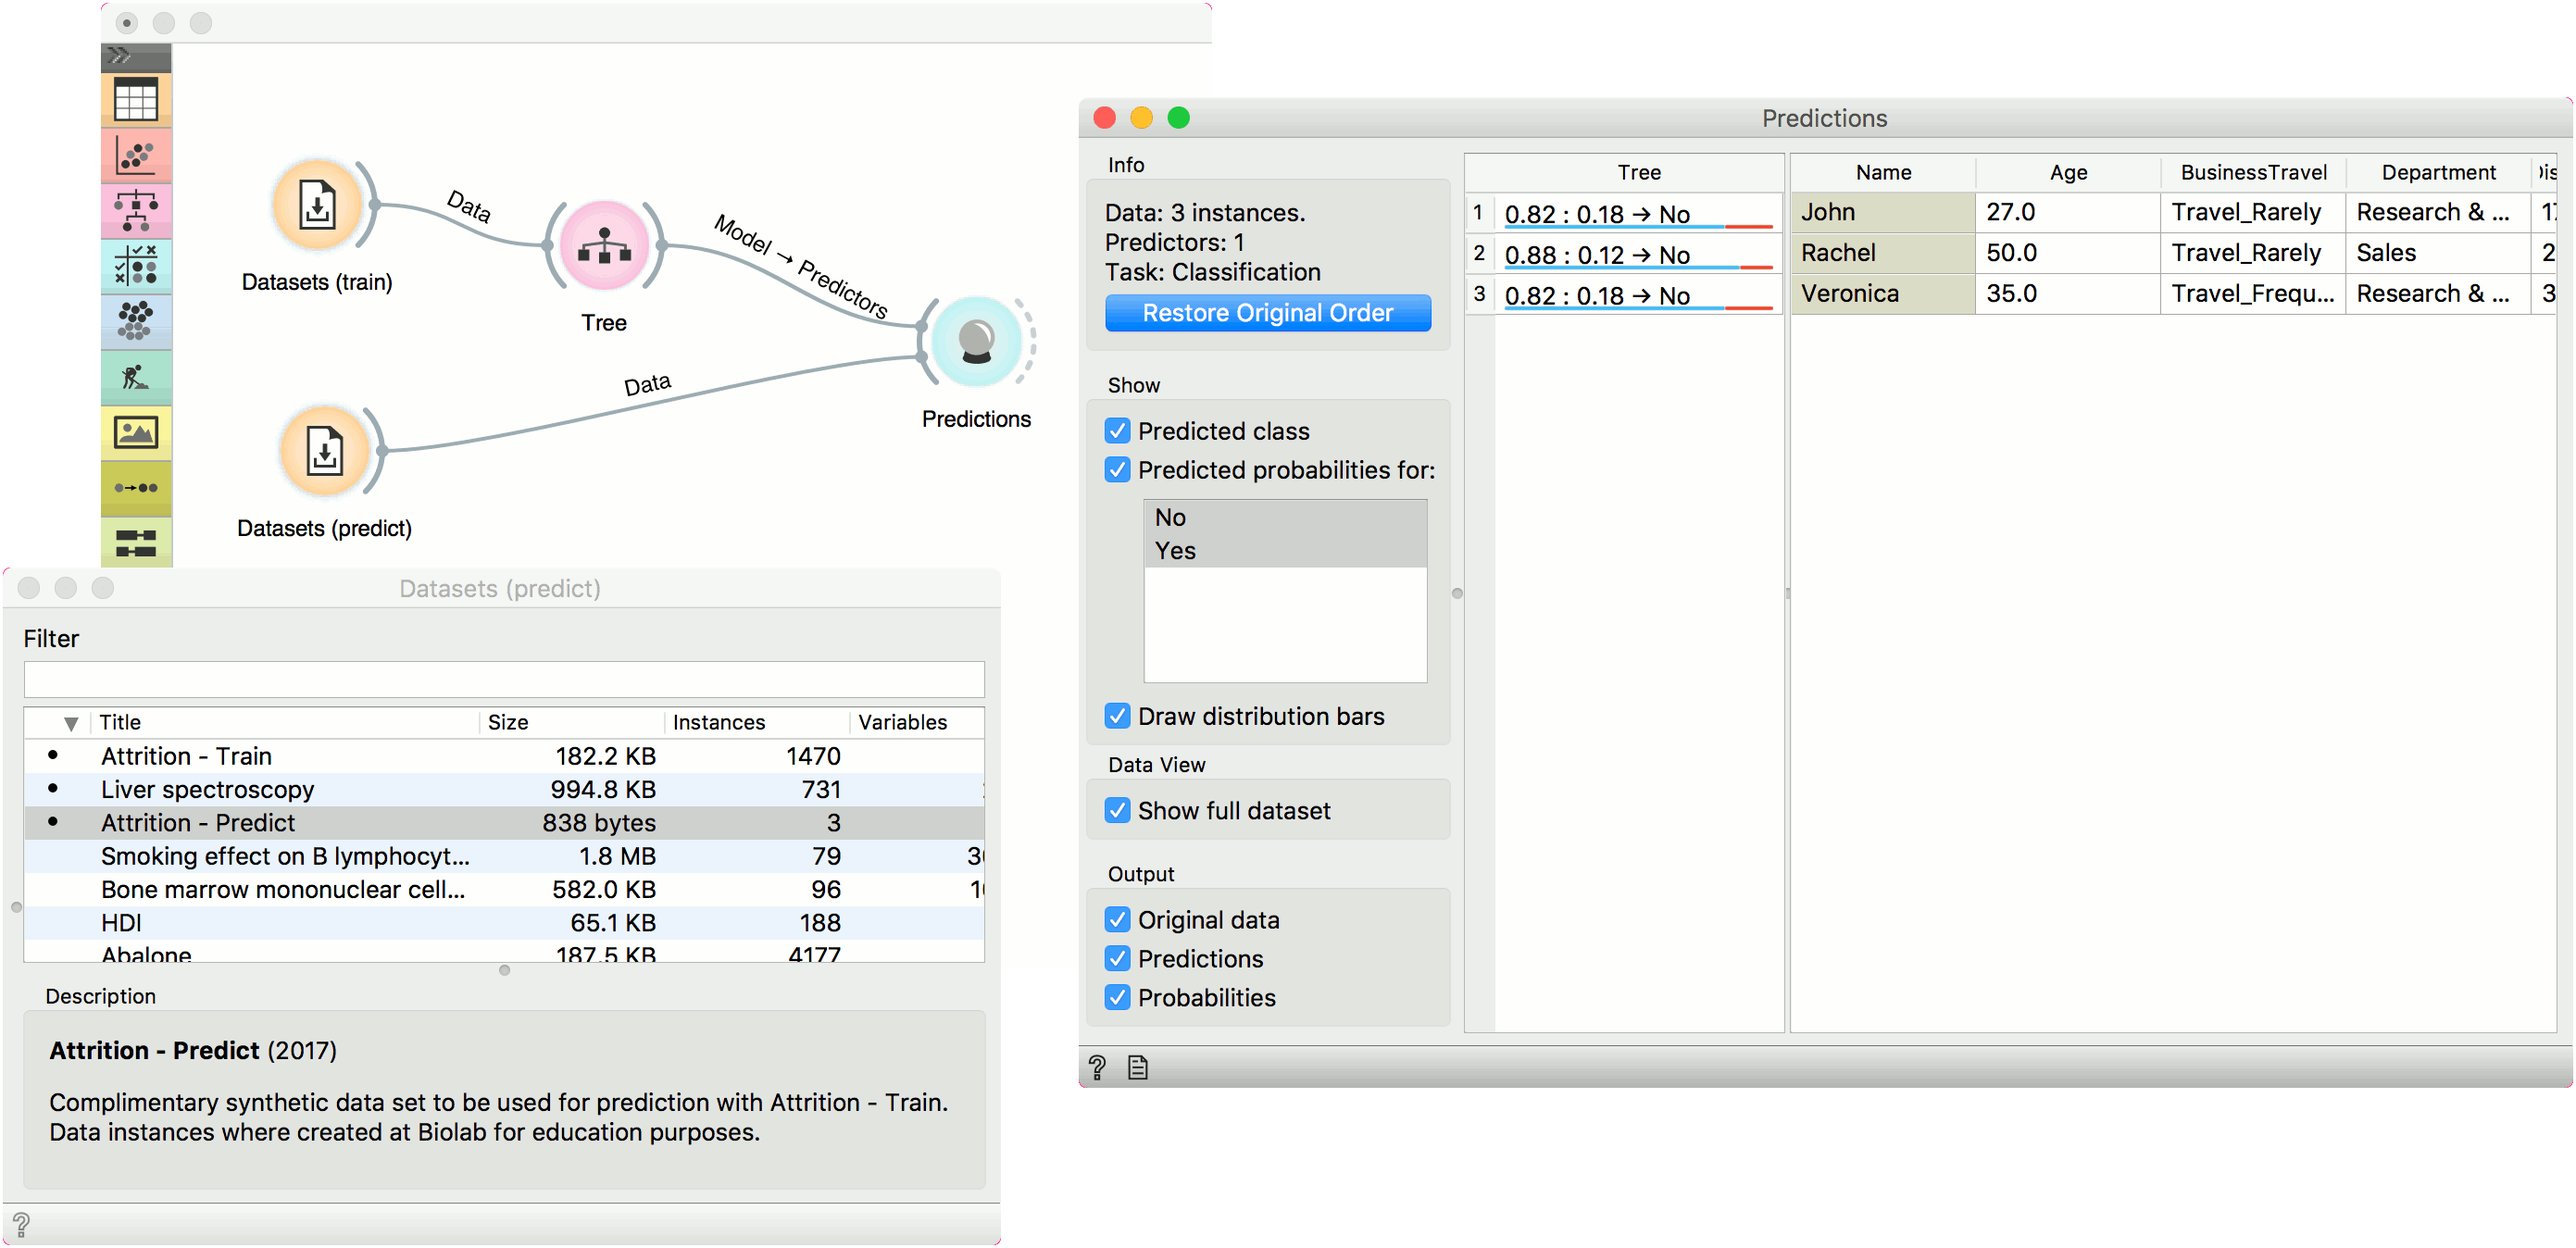
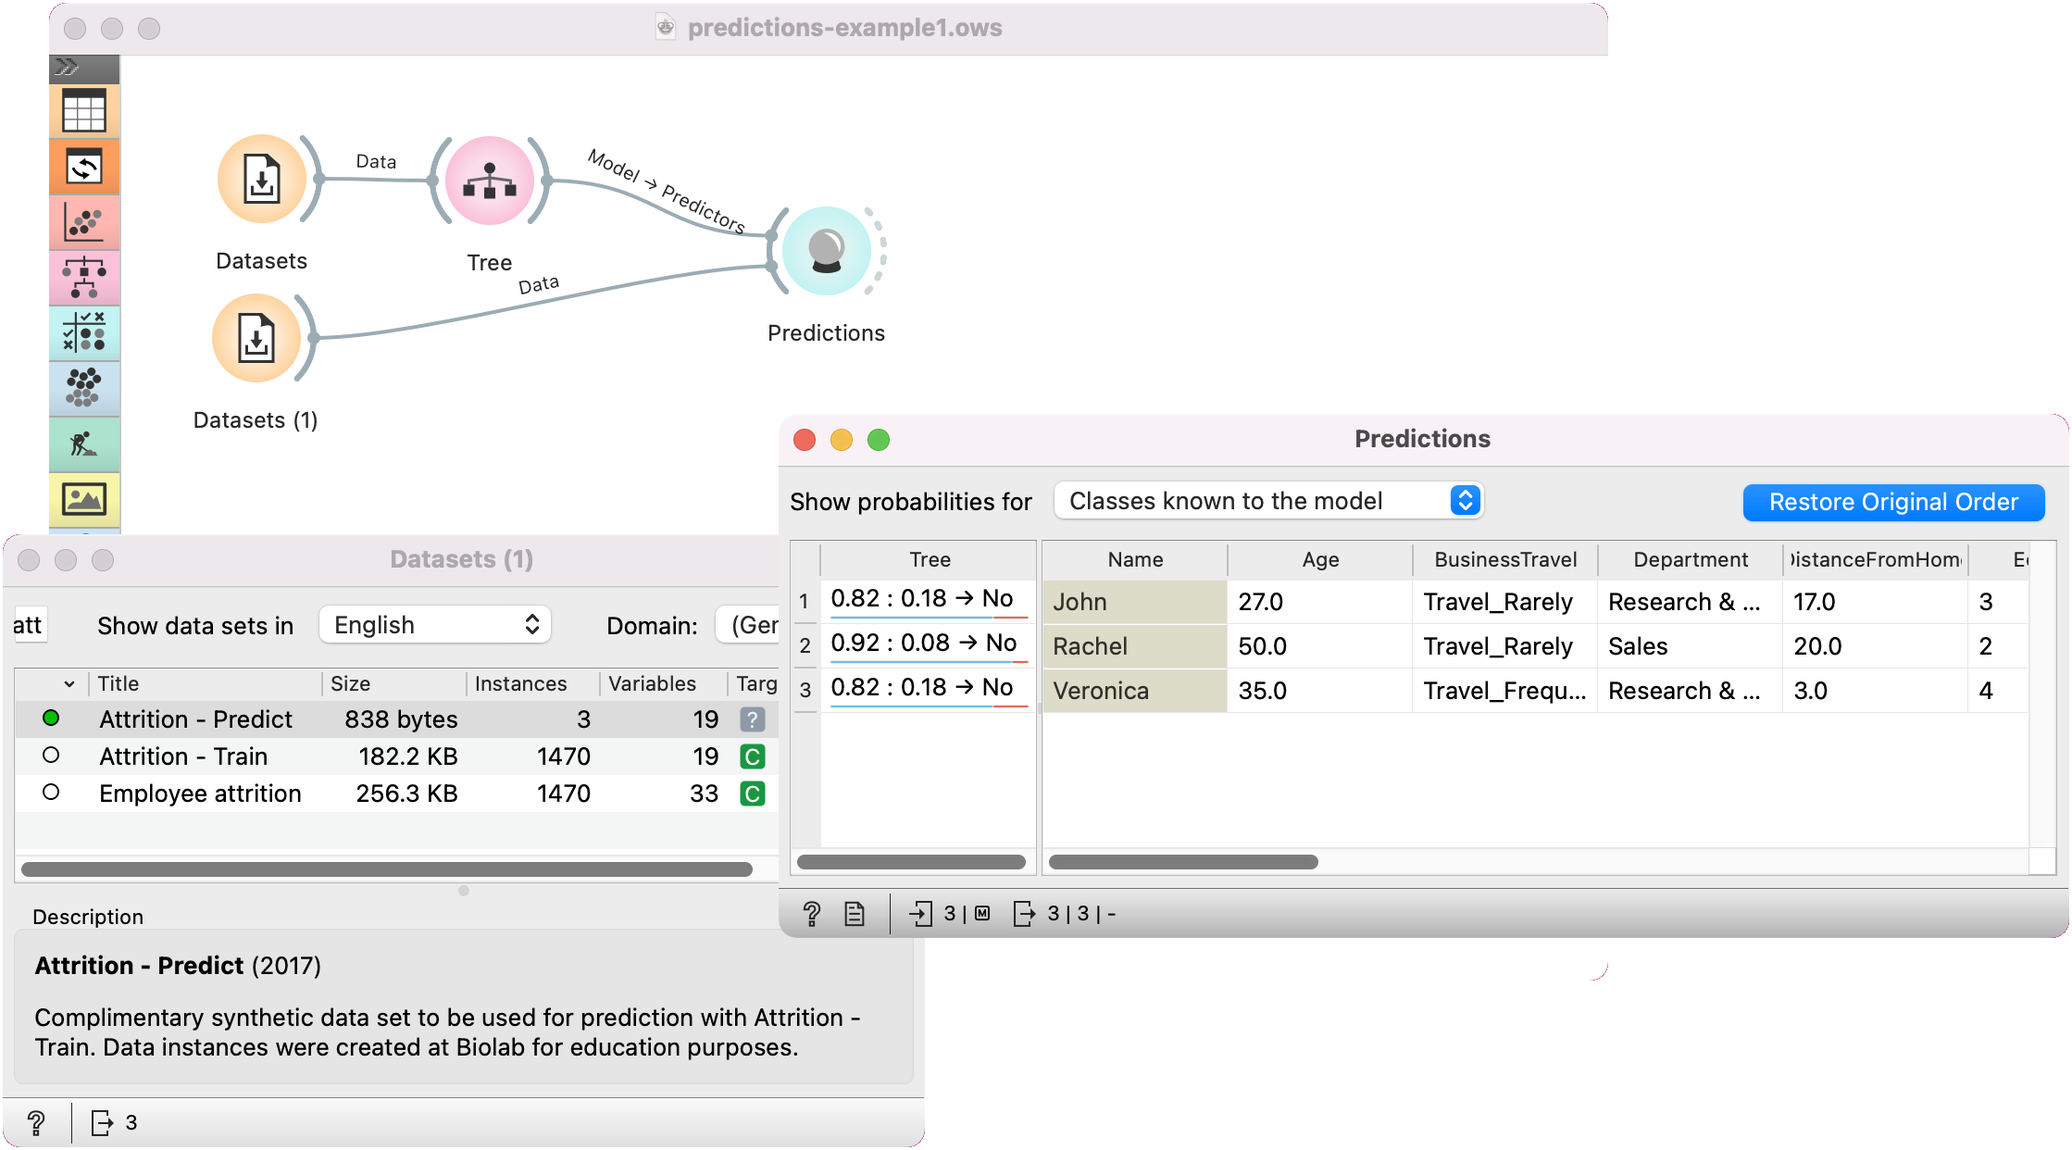
[DOC] Predictions

diff --git a/source/widgets/evaluate/predictions.md b/source/widgets/evaluate/predictions.md
@@ -10,6 +10,7 @@ Shows models' predictions on the data.
 
 **Outputs**
 
+- Selected Predictions: a subset of predictions
 - Predictions: data with added predictions
 - Evaluation Results: results of testing classification algorithms
 
@@ -17,16 +18,23 @@ The widget receives a dataset and one or more predictors (predictive models, not
 
 ![](images/Predictions-stamped.png)
 
-1. Information on the input, namely the number of instances to predict, the number of predictors and the task (classification or regression). If you have sorted the data table by attribute and you wish to see the original view, press *Restore Original Order*.
-2. You can select the options for classification. If *Predicted class* is ticked, the view provides information on predicted class. If *Predicted probabilities for* is ticked, the view provides information on probabilities predicted by the classifier(s). You can also select the predicted class displayed in the view. The option *Draw distribution bars* provides a visualization of probabilities.
-3. By ticking the *Show full dataset*, you can view the entire data table (otherwise only class variable will be shown).
-4. Select the desired output.
-5. Predictions.
+1. *Show probabilities for* enables showing different kinds of prediction probabilities, namely for classes in the data, for classes known to the model, or classes in data and model.
+   If *Show classification errors* is ticked, an additional error column is shown, displaying 1 - probability assigned to the correct class.
+   If you have sorted the data table by attribute and you wish to see the original view, press *Restore Original Order*.
+2. *Show performance scores* shows scores for model comparison. For classification, one can set the *Target class* to compare scores on different classes. *(Average over classes)* averages individual class scores.
 
-The widget show the probabilities and final decisions of [predictive models](https://en.wikipedia.org/wiki/Predictive_modelling). The output of the widget is another dataset, where predictions are appended as new meta attributes. You can select which features you wish to output (original data, predictions, probabilities). The result can be observed in a [Data Table](../data/datatable.md). If the predicted data includes true class values, the result of prediction can also be observed in a [Confusion Matrix](../evaluate/confusionmatrix.md).
+The widget show the probabilities and final decisions of [predictive models](https://en.wikipedia.org/wiki/Predictive_modelling). There are three widget outputs, namely another dataset, where predictions are appended as new meta attributes, a selected subset of enhanced dataset, or evaluation results (predicted data icnluding a true class values) to be used with [Confusion Matrix](../evaluate/confusionmatrix.md), [ROC Analysis](../evaluate/rocanalysis.md), [Performance Curve](../evaluate/performancecurve.md) or [Calibration Plot](../evaluate/calibrationplot.md).  Predictions can be observed in a [Data Table](../data/datatable.md) or analyzed downstream.
+
+![](images/Predictions-Regression.png)
+
+For regression, the widget shows different types of regression errors, namely *Difference* (to true value), *Absolute difference*, *Relative difference* (in percentage), and *Absolute relative*. Note that "positive" differences (overestimations) are shown in red, while "negative" differences (underestimations) are shown in blue.
+
+On the left side, a pink line indicates the forecast value, while the dot indicates a true value. This, along with the error column, allows for a quick visual estimation of predictive errors.
 
 Examples
 --------
+
+#### Predict on new data
 
 In the first example, we will use *Attrition - Train* data from the [Datasets](../data/datasets.md) widget. This is a data on attrition of employees. In other words, we wish to know whether a certain employee will resign from the job or not. We will construct a predictive model with the [Tree](../model/tree.md) widget and observe probabilities in **Predictions**.
 
@@ -36,16 +44,18 @@ The [Tree](../model/tree.md) model predicts none of the employees will leave the
 
 ![](images/Predictions-Example1.png)
 
-In the second example, we will see how to properly use [Preprocess](../data/preprocess.md) with **Predictions** or [Test & Score](../evaluate/testandscore.md).
+#### How to use preprocessing
+
+In the second example, we will see how to properly use [Preprocess](../data/preprocess.md) with **Predictions** or [Test &andScore](../evaluate/testandscore.md).
 
 This time we are using the *heart disease.tab* data from the [File](../data/file.md) widget. You can access the data through the dropdown menu. This is a dataset with 303 patients that came to the doctor suffering from a chest pain. After the tests were done, some patients were found to have diameter narrowing and others did not (this is our class variable).
 
-The heart disease data have some missing values and we wish to account for that. First, we will split the data set into train and test data with [Data Sampler](../data/datasampler.md).
+The heart disease data have some missing values and we wish to account for that. First, we will split the data set into train and test data with [Data Sampler](../data/datasampler.md), say 70% for training and 30% for testing.
 
-Then we will send the *Data Sample* into [Preprocess](../data/preprocess.md). We will use *Impute Missing Values*, but you can try any combination of preprocessors on your data. We will send preprocessed data to [Logistic Regression](../model/logisticregression.md) and the constructed model to **Predictions**.
+Then we will send the *Data Sample* into [Preprocess](../data/preprocess.md). We will use *Impute Missing Values*, but you can try any combination of preprocessors on your data. We will send *Preprocessed Data* to [Logistic Regression](../model/logisticregression.md) and the constructed model to **Predictions**.
 
 Finally, **Predictions** also needs the data to predict on. We will use the output of [Data Sampler](../data/datasampler.md) for prediction, but this time not the *Data Sample*, but the *Remaining Data*, this is the data that wasn't used for training the model.
 
-Notice how we send the remaining data directly to **Predictions** without applying any preprocessing. This is because Orange handles preprocessing on new data internally to prevent any errors in the model construction. The exact same preprocessor that was used on the training data will be used for predictions. The same process applies to [Test & Score](../evaluate/testandscore.md).
+Notice how we send the remaining data directly to **Predictions** without applying any preprocessing. This is because Orange handles preprocessing on new data internally to prevent any errors in the model construction. The exact same preprocessor that was used on the training data will be used for predictions. The same process applies to [Test and Score](../evaluate/testandscore.md).
 
 ![](images/Predictions-Example2.png)
